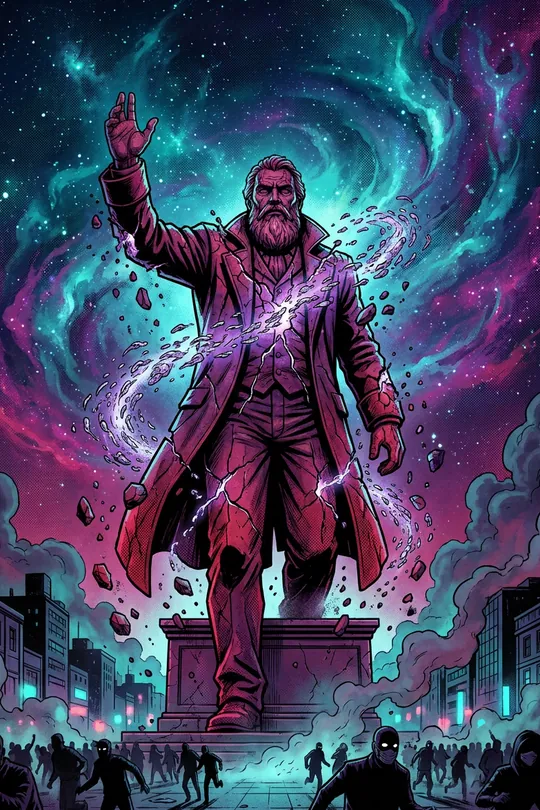
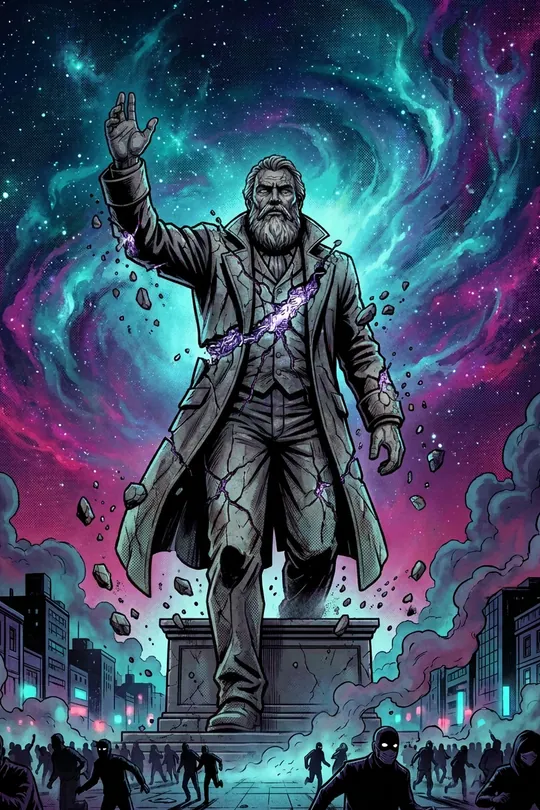
Illustrazioni Gemini (API) inserite nel gioco

diff --git a/strumenti/gemini/da_rifare.md b/strumenti/gemini/da_rifare.md
@@ -21,12 +21,3 @@ Vertical 2:3 portrait illustration (taller than wide, e.g. 848x1264), one single
 # Minacce nello stile della Storia (richiesta di Alessio 7/11)
 
 # Minacce nello stile della Storia, secondo tentativo (il primo aveva il soggetto dentro un riquadro)
-
-## t_ilcolossodirovina.png (Minacce: Il Colosso di Rovina)
-
-Problema: le crepe e i nanodroidi devono vedersi bene, statua di pietra grigia.
-
-Riferimento: t_ilcolossodirovina
-
-Vertical 2:3 portrait illustration (taller than wide, e.g. 848x1264), one single continuous scene that fills the entire image edge to edge. Wide shot seen from a distance: the main subject is drawn fairly small, centered horizontally and placed just below the middle of the image, with a vast open cosmic night sky above it that continues uninterrupted behind and around the subject, and dark ground, smoke and crowd shadows below it. Nothing important near the top edge or the bottom edge. The sky, the subject and the ground are all part of the same space, with no lines, frames or boxes separating them. Same art style as the Monomythos story scenes: bold cartoon comic-book illustration, thick black ink outlines, cel shading, halftone dots, night city of Ataca under a swirling cosmic nebula sky, high contrast, saturated colors, atmospheric smoke and glow. Palette: menacing villain mood, purple, magenta and crimson red for the threat and its energy, teal and cyan for the night sky and city lights. Characters are anonymous silhouettes, seen from behind, in shadow, hooded or masked, or as distant figures: no recognizable characters, no superheroes from movies or comics, no logos. No writing of any kind: no text, letters, numbers, captions, speech bubbles, sound effect words, signature or watermark. Not a comic page: no panels, no inset rectangle, no picture-in-picture, no border, no frame. Scene: the Colossus of Ruin, the same bearded Founder statue as in the reference (long coat, one arm raised, as tall as a building), but made of GREY weathered stone and visibly broken: huge dark cracks split its face, chest, arms and legs, whole chunks of stone are missing, and through every crack and hole you can see a glowing silver-violet swarm of tiny nanomachines crawling inside it and holding it together. It walks through the city square, stone fragments falling, tiny fleeing silhouettes at its feet.
-
